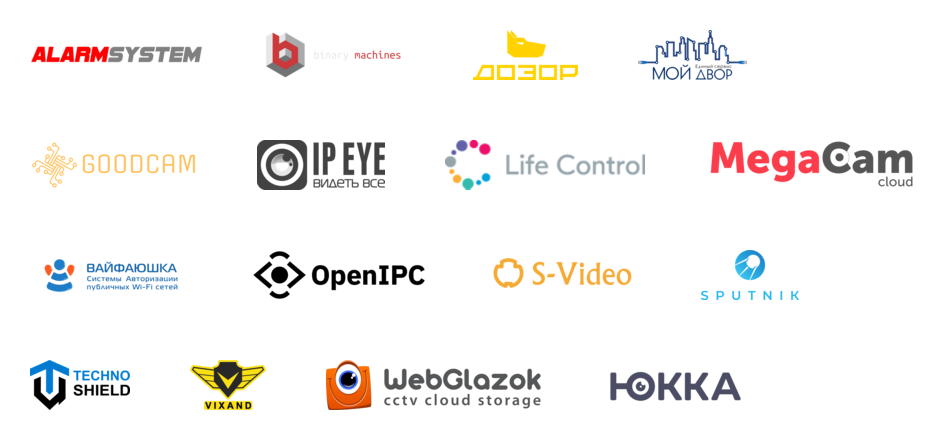
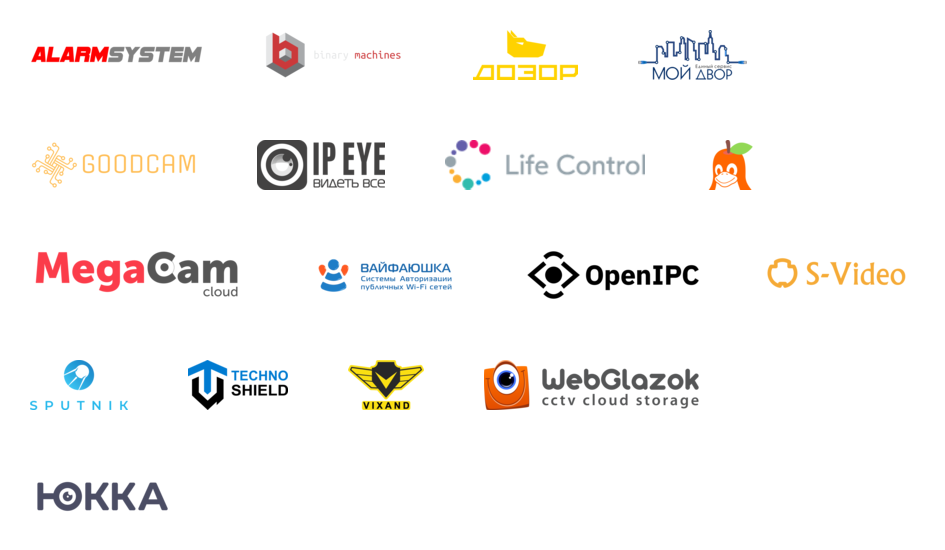
Update page

diff --git a/docs/index.md b/docs/index.md
@@ -68,4 +68,4 @@ We would be grateful for the feedback and suggestions.
 | [![DVOR24 logo](https://openipc.github.io/images/partner_dvor24_mini.png "DVOR24 logo")](https://dvor24.ru) | [![GOODCAM logo](https://openipc.github.io/images/partner_goodcam_mini.png "GOODCAM logo")](https://www.goodcam.io) | [![IPEYE logo](https://openipc.github.io/images/partner_ipeye_mini.png "IPEYE logo")](https://ipeye.ru) | [![LIFECONTROL logo](https://openipc.github.io/images/partner_lifecontrol_mini.png "LIFECONTROL logo")](https://lifecontrol.ru/) |
 | [![MEGACAM logo](https://openipc.github.io/images/partner_megacam_mini.png "MEGACAM logo")](http://megacam.kz) | [![MYWIFI-CC logo](https://openipc.github.io/images/partner_mywifi-cc_mini.png "MYWIFI-CC logo")](https://xn--80aaaf0bh2e7a5c.xn--p1ai/) | [![OPENIPC logo](https://openipc.github.io/images/partner_openipc_mini.png "OPENIPC logo")](https://openipc.org) | [![SPUTNIK logo](https://openipc.github.io/images/partner_sputnik_mini.png "SPUTNIK logo")](https://sputnik.systems) |
 | [![TECHNO_SHIELD logo](https://openipc.github.io/images/partner_techno-shield_mini.png "TECHNO_SCHIELD logo")](https://msvoko.ru) | [![VIXAND logo](https://openipc.github.io/images/partner_vixand_mini.png "VIXAND logo")](http://vixand.ru) | [![WEBGLAZOK logo](https://openipc.github.io/images/partner_webglazok_mini.png "WEBGLAZOK logo")](https://webglazok.com) | [![YUCCA logo](https://openipc.github.io/images/partner_yucca_mini.png "YUCCA logo")](https://yucca.app/en) |
-| [![S-VIDEO logo](https://openipc.github.io/images/partner_s-video_mini.png "S-Video logo")](https://www.cctvsp.ru/cctv/openipc)   |   |   |   |
+| [![S-VIDEO logo](https://openipc.github.io/images/partner_s-video_mini.png "S-Video logo")](https://www.cctvsp.ru/cctv/openipc) | [![LINUXCHENXING logo](https://openipc.github.io/images/partner_linuxchenxing_mini.png "LINUXCHENXING logo")](https://linux-chenxing.org)  |   |   |
